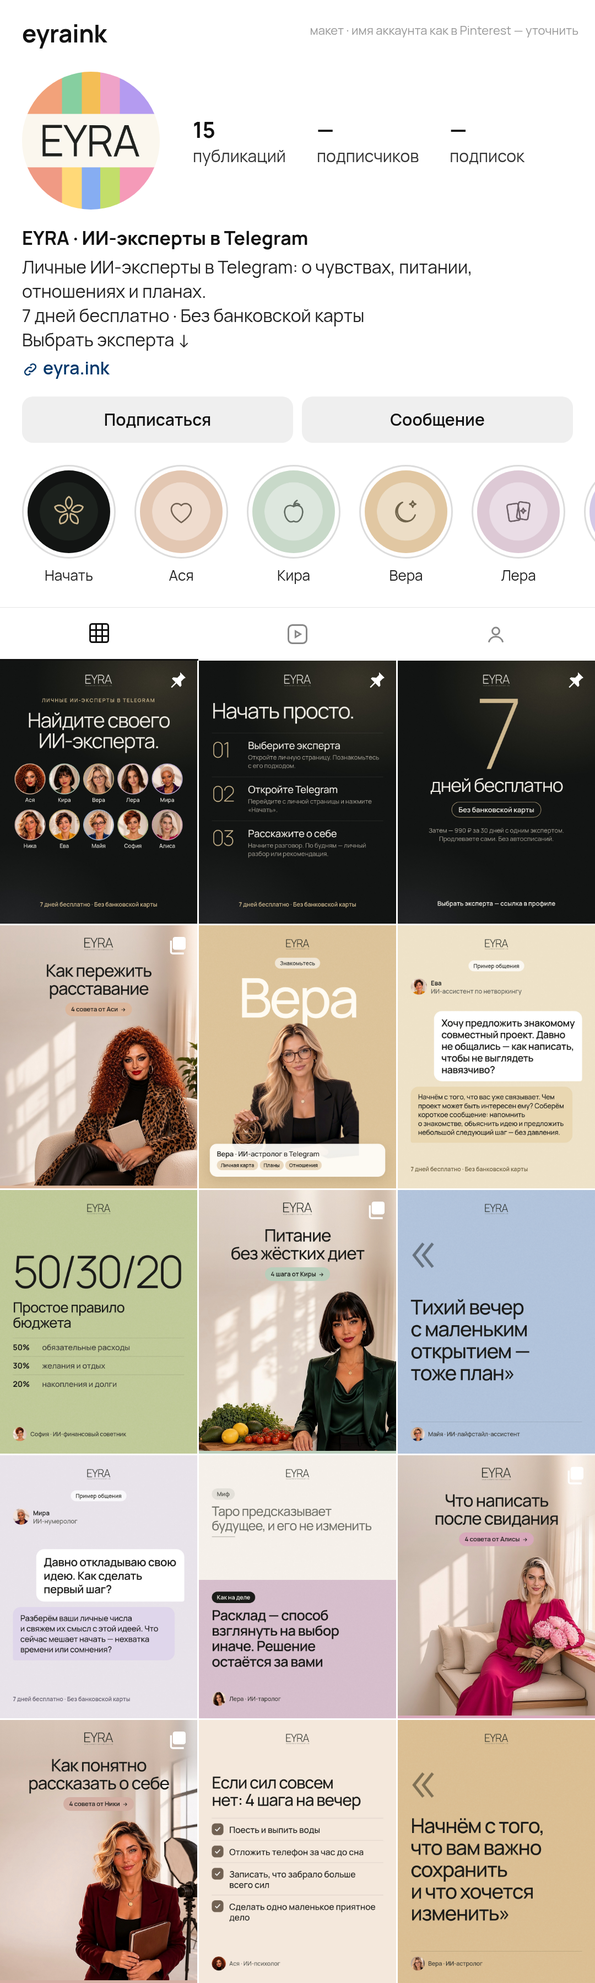
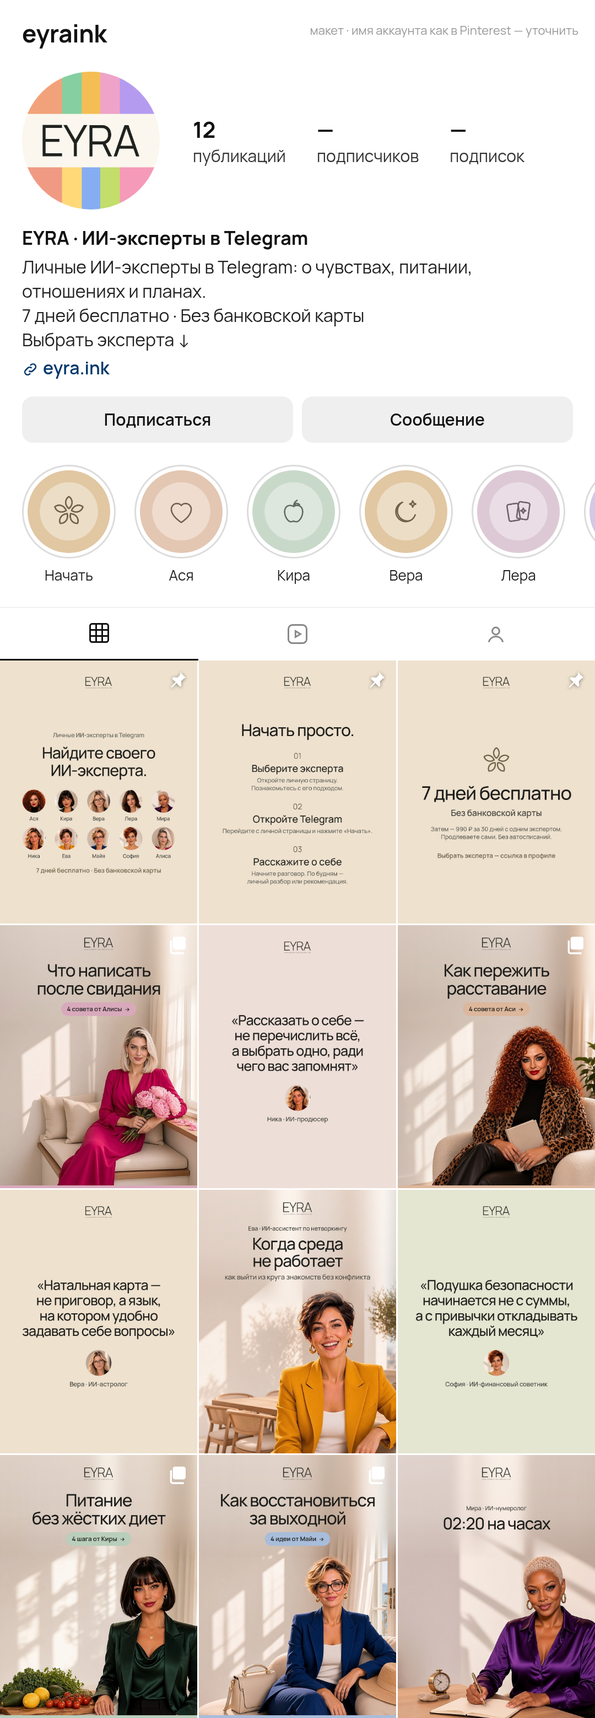
Video kit: Instagram v3 — feed back to v1 light style (9 grid posts, light quote cards, 3 light pinned, light offer story & 'Начать' highlight), v2 feed archived, carousels kept + Codex 2.4

diff --git a/docs/video-kit/scripts/instagram/ig.html b/docs/video-kit/scripts/instagram/ig.html
@@ -55,7 +55,7 @@ Promise.all([...['260 100px M','450 100px M','500 80px M','600 30px M','200 100p
   const s=S?txt(S,{fontSize:'36px',fontWeight:450,lineHeight:1.22,color:'#3f403a',letterSpacing:'-.01em'}):null;
   const pl=MODE==='carcover'?pill(ty(P.get('p')||X.show)+`<span style="display:inline-block;width:30px;height:30px;vertical-align:-6px;margin-left:12px"><svg viewBox="0 0 24 24" width="30" height="30" fill="none" stroke="${ink}" stroke-width="2" stroke-linecap="round" stroke-linejoin="round">${ICONS2.arrow}</svg></span>`,0,{background:A,fontSize:'32px',padding:'18px 30px'}):null;
   const top0=lk.bottom+40,bot0=HEAD-36;const hN=MODE==='carcover'?0:30+18;const Hh=()=>hN+t.offsetHeight+(s?18+s.offsetHeight:0)+(pl?28+pl.offsetHeight:0);
-  qa.fs=fit(t,88,58,3,()=>Hh()<=bot0-top0);
+  qa.fs=fit(t,MODE==='carcover'?88:84,58,3,()=>Hh()<=bot0-top0);
   const y0=Math.round(top0+(bot0-top0-Hh())/2);nm.style.top=y0+'px';let y=y0+hN;t.style.top=y+'px';y+=t.offsetHeight;
   if(s){y+=18;s.style.top=y+'px';y+=s.offsetHeight}if(pl){y+=28;pl.style.top=y+'px';y+=pl.offsetHeight}
   if(MODE==='carcover'&&P.get('pg'))el('','',{position:'absolute',left:0,right:0,bottom:0,height:'14px',background:A});
@@ -170,33 +170,35 @@ Promise.all([...['260 100px M','450 100px M','500 80px M','600 30px M','200 100p
   const a=txt(ty(P.get('t')||'Полный выпуск — на eyra.ink'),{fontSize:'48px',fontWeight:500,letterSpacing:'-.02em',lineHeight:1.2,top:(lk.bottom+90)+'px'});
   const b=txt(X.name+' · '+ty(X.show),{fontSize:'32px',fontWeight:500,lineHeight:1,color:'#55564f',top:(lk.bottom+90+a.offsetHeight+24)+'px'});
   qa.bottom=lk.bottom+90+a.offsetHeight+24+32;qa.limit=1260;qa.fs=48;
- } else if(MODE==='pin-about'){
-  darkBg();lockD(46,72);
-  const eb=txt(O.eyebrow,{top:'190px',fontSize:'26px',lineHeight:1,color:GOLD});eb.classList.add('cap');
-  const h=txt(ty(P.get('t')||O.hero),{top:'250px',fontSize:'100px',fontWeight:400,letterSpacing:'-.04em',lineHeight:1.02,color:CREAM,width:'900px',left:'90px'});qa.fs=fit(h,104,76,2);
-  const ids='asya kira vera lera mira nika eva maya sofia alisa'.split(' ');const fs=150,gx=176,x0=(W-gx*4-fs)/2;let y0=250+h.offsetHeight+70;
-  ids.forEach((k,i)=>{const x=x0+(i%5)*gx,y=y0+Math.floor(i/5)*236;face(fs,x,y,k,[4,SITE[k].accent]);el('t',SITE[k].name,{left:(x-20)+'px',width:(fs+40)+'px',top:(y+fs+18)+'px',fontSize:'28px',fontWeight:500,lineHeight:1,color:CREAM})});
-  const f=txt(O.free+' · '+O.nocard,{top:'1236px',fontSize:'30px',fontWeight:600,lineHeight:1,color:GOLD});
-  qa.bottom=y0+236+fs+18+28;qa.limit=1200;
- } else if(MODE==='pin-how'){
-  darkBg();lockD(46,72);
-  const h=ltx(ty(O.how),{top:'200px',fontSize:'110px',fontWeight:400,letterSpacing:'-.04em',lineHeight:1,color:CREAM});
-  let y=200+h.offsetHeight+60;
-  O.steps.forEach((s,i)=>{const r=el('','',{position:'absolute',left:'100px',width:'880px',top:y+'px',display:'flex',gap:'36px',padding:'34px 0',borderTop:'2px solid rgba(242,239,232,.14)'});
-   el('','0'+(i+1),{flex:'0 0 150px',fontSize:'110px',fontWeight:200,letterSpacing:'-.05em',lineHeight:.9,color:GOLD},r);
-   el('',`<div style="font-size:52px;font-weight:500;letter-spacing:-.02em;line-height:1.1;color:${CREAM}">${ty(s[0])}</div><div style="font-size:32px;font-weight:450;line-height:1.35;color:${MUT};margin-top:12px">${ty(s[1])}</div>`,{},r);y+=r.offsetHeight});
-  txt(O.free+' · '+O.nocard,{top:'1236px',fontSize:'30px',fontWeight:600,lineHeight:1,color:GOLD});
-  qa.bottom=y;qa.limit=1200;qa.fs=110;
- } else if(MODE==='pin-offer'||MODE==='story-offer'){
-  const SO=MODE==='story-offer';darkBg();SO?lockD(56,300):lockD(46,72);
-  const Y=SO?410:150;
-  const n=txt('7',{top:Y+'px',fontSize:(SO?400:500)+'px',fontWeight:200,letterSpacing:'-.06em',lineHeight:.86,color:GOLD});
-  const d=txt('дней бесплатно',{top:(Y+(SO?350:440))+'px',fontSize:(SO?'84px':'96px'),fontWeight:400,letterSpacing:'-.04em',lineHeight:1,color:CREAM});
-  const c=pill(O.nocard,Y+(SO?470:575),{background:'transparent',border:`2px solid ${GOLD}`,color:CREAM,fontSize:'36px',padding:'20px 34px'});
-  const s=txt(ty(O.after+' '+O.after2),{top:(Y+(SO?570:700))+'px',fontSize:'32px',fontWeight:450,lineHeight:1.35,color:MUT,width:'760px',left:'160px'});
-  let y=Y+(SO?570:700)+s.offsetHeight;
-  if(SO){y+=40;zoneBox(y,110,'стикер «Ссылка» → eyra.ink');y+=110;qa.limit=1248-30}else{txt(ty('Выбрать эксперта — '+O.link.toLowerCase()),{top:'1230px',fontSize:'32px',fontWeight:600,lineHeight:1,color:CREAM});qa.limit=1190}
-  qa.bottom=y;qa.fs=96;
+ } else if(MODE==='pin-about'||MODE==='pin-how'||MODE==='pin-offer'||MODE==='story-offer'){
+  // light pinned cards in the v1 quote-card style: warm tint, lockup, Manrope 500, soft round faces
+  const G='#d8b988',SO=MODE==='story-offer';B.style.background=mix(G,'#f8f4ee',30);const dg=mix(G,ink,45);
+  const lk=lock(SO?54:46,SO?300:84);const top0=lk.bottom+(SO?60:50),bot0=SO?1248-40:1350-80;const parts=[];
+  const big=(t,max,min,lines)=>{const d=txt(ty(t),{fontWeight:500,letterSpacing:'-.03em',lineHeight:1.12,color:ink});parts.push([d,()=>fit(d,max,min,lines)]);return d};
+  const line=(t,fs,c,w)=>{const d=txt(ty(t),{fontSize:fs+'px',fontWeight:w||500,lineHeight:1.3,color:c||'#3b3c37'});parts.push([d]);return d};
+  const gap=g=>parts.push([null,g]);
+  if(MODE==='pin-about'){
+   line(O.eyebrow,30,'#55564f');gap(26);big(O.hero,80,60,2);gap(56);
+   const row=el('','',{position:'absolute',left:'0',width:W+'px',textAlign:'center'});parts.push([row]);
+   'asya kira vera lera mira nika eva maya sofia alisa'.split(' ').forEach((k,i)=>{const w=el('','',{display:'inline-block',width:'150px',margin:'0 8px 26px',verticalAlign:'top'},row);
+    const im=new Image();im.src=`face-${k}.png`;Object.assign(im.style,{width:'118px',height:'118px',borderRadius:'50%',display:'block',margin:'0 auto'});w.append(im);imgs.push(im);
+    el('',SITE[k].name,{fontSize:'26px',fontWeight:500,marginTop:'12px',color:'#3b3c37'},w);if(i===4)el('','',{display:'block'},row)});
+   gap(10);line(O.free+' · '+O.nocard,32,dg,600);
+  } else if(MODE==='pin-how'){
+   big(O.how,84,60,1);gap(60);
+   O.steps.forEach((st,i)=>{line('0'+(i+1),40,dg,400);gap(6);line(st[0],50,ink,500);gap(8);line(st[1],31,'#55564f',450);gap(i<2?48:0)});
+  } else {
+   icon('mark',SO?160:150,dg,2.1,{left:(W/2-(SO?80:75))+'px'});parts.push([B.lastChild]);gap(SO?44:36);
+   big(O.free,SO?104:96,70,1);gap(20);line(O.nocard,SO?48:44,'#3b3c37',500);gap(34);
+   line(O.after+' '+O.after2,SO?32:31,'#55564f',450).style.cssText+=';width:760px;left:160px';
+   if(!SO){gap(56);line('Выбрать эксперта — '+O.link.toLowerCase(),32,dg,600)}
+  }
+  parts.forEach(p=>p[1]&&p[0]&&p[1]());
+  const hgt=()=>parts.reduce((h,p)=>h+(p[0]?p[0].offsetHeight:p[1]),0);
+  const ZH=SO?110:0,extra=SO?50+ZH:0;let y=Math.round(top0+(bot0-top0-hgt()-extra)/2);
+  parts.forEach(p=>{if(p[0]){p[0].style.top=y+'px';y+=p[0].offsetHeight}else y+=p[1]});
+  if(SO){y+=50;zoneBox(y,ZH,'стикер «Ссылка» → eyra.ink');y+=ZH}
+  qa.bottom=y;qa.limit=bot0;qa.fs=0;
  } else if(MODE.startsWith('story-')){
   bg(`bg-story-${K}.jpg`);veil(HEAD);const lk=lock(52,300);
   const EX=MODE==='story-expert';
@@ -231,8 +233,9 @@ Promise.all([...['260 100px M','450 100px M','500 80px M','600 30px M','200 100p
   icon(K,420,deep,1.05,{left:'330px',top:'750px'});
   qa.bottom=0;qa.limit=1;qa.fs=0;
  } else if(MODE==='highlight-start'){
-  B.style.background=DARK;el('','',{position:'absolute',left:'160px',top:'580px',width:'760px',height:'760px',borderRadius:'50%',background:'#1d211e'});
-  icon('mark',440,GOLD,2.2,{left:'320px',top:'740px'});
+  const G='#d8b988';B.style.background=mix(G,'#ffffff',78);
+  el('','',{position:'absolute',left:'160px',top:'580px',width:'760px',height:'760px',borderRadius:'50%',background:mix(G,'#ffffff',48)});
+  icon('mark',440,mix(G,ink,45),2.1,{left:'320px',top:'740px'});
   qa.bottom=0;qa.limit=1;qa.fs=0;
  }
  guides();window.qa=qa;

diff --git a/docs/video-kit/scripts/instagram/new-post.py b/docs/video-kit/scripts/instagram/new-post.py
@@ -5,15 +5,12 @@
 Лента / карусель 1080×1350:
   python3 new-post.py alisa "Что написать после свидания"                         -> сцена + вопрос
   python3 new-post.py asya "Как пережить расставание" --kind carcover --pill "4 совета от Аси"
-  python3 new-post.py vera --kind meet --kicker "Знакомьтесь"                     -> портрет на цвете, имя крупно
-  python3 new-post.py eva --kind dialog                                           -> пример общения с сайта
-  python3 new-post.py sofia "Простое правило бюджета" --kind numeral --n "50/30/20" --items "50% — обязательные|30% — желания|20% — накопления"
-  python3 new-post.py maya "Тихий вечер — тоже план" --kind bigquote               -> большая цитата на цвете
-  python3 new-post.py lera "Миф…" "Как на деле…" --kind mythfact
-  python3 new-post.py asya "4 шага на вечер" --kind checklist --items "Шаг 1|Шаг 2|Шаг 3"
+  python3 new-post.py nika "Рассказать о себе — …" --kind quote                    -> карточка-цитата (лента)
+  (meet, dialog, numeral, bigquote, mythfact, checklist — типы v2: для ленты не использовать, meet нужен как слайд 6 карусели)
+  python3 new-post.py vera --kind meet --kicker "Кто такая Вера"                    -> слайд «Кто такая …»
   python3 new-post.py kira "Добавлять, а не запрещать" --kind tip --n 02 --body "…" --pg "3 / 7"
   python3 new-post.py kira --kind cta --pg "7 / 7"                                -> финал: Telegram, 7 дней бесплатно, без карты
-  python3 new-post.py asya --kind pin-about | pin-how | pin-offer                  -> тёмные закрепы
+  python3 new-post.py asya --kind pin-about | pin-how | pin-offer                  -> светлые закрепы
 Сторис / Reels 1080×1920:
   python3 new-post.py asya "Что помогает вам успокоиться вечером?" --kind story-question   (story-poll, story-quote, story-episode)
   python3 new-post.py nika --kind story-expert                                     -> знакомство + место под стикер «Ссылка»

diff --git a/docs/CODEX_VIDEO_KIT.md b/docs/CODEX_VIDEO_KIT.md
@@ -5,7 +5,7 @@
 ## Короткий промпт для Codex (скопировать целиком)
 
 ```text
-Задача: оформи каналы подкастов EYRA на YouTube и RUTUBE, сообщество EYRA во ВКонтакте, канал EYRA в Дзене, профили EYRA в Pinterest и Instagram, подготовь видео выпусков и вертикальные тизеры по утверждённому видео-киту. Полное ТЗ: docs/CODEX_VIDEO_KIT.md в репо unleaon-hub/eyra-podcasts-concept (https://github.com/unleaon-hub/eyra-podcasts-concept/blob/main/docs/CODEX_VIDEO_KIT.md), все файлы — в docs/video-kit/. Готовые картинки ничем не меняй: не пересжимай, не кадрируй, не перерисовывай. Загружай их по таблицам: раздел 2 — YouTube и RUTUBE, раздел 2.1 — ВКонтакте (основная обложка, живая обложка, аватар, превью VK Видео), раздел 2.2 — Дзен (аватар, две обложки канала, обложки видео, Роликов и статей). Отдельного формата для подкастов в Дзене нет: выпуск публикуется как видео (make-episode-video.sh), а тизер — как Ролик (make-vertical-teaser.sh). Раздел 2.3 — Pinterest (аватар, обложка профиля, обложки 10 досок, пины 1000×1500, короткие названия досок и описание профиля из pinterest/TEXTS.md; в каждой доске не меньше 3 пинов). Новые пины — только через scripts/pinterest/new-pin.py; если он напечатал BAD, сократи заголовок. Раздел 2.4 — Instagram v2 (цель — привести к эксперту в Telegram: аватар, описание профиля, 3 закрепа, 12 постов 1080×1350 в порядке с 12 по 01, 10 каруселей по 7 слайдов, сторис со стикером «Ссылка», 11 обложек «Актуального», обложки, кадры и финальные заставки Reels; тексты из instagram/TEXTS.md — черновик, согласовать; оффер «7 дней бесплатно · Без банковской карты» — дословно с eyra.ink, не перефразируй). Новые картинки для Instagram — только через scripts/instagram/new-post.py и new-carousel.py. Где что лежит — в шпаргалке сразу под промптом. Новые обложки делай только через scripts/new-cover.py, видео выпусков — только через scripts/make-episode-video.sh. Id эксперта бери из раздела 4. Если new-cover.py выдал предупреждение «⚠», сократи название и перезапусти; с предупреждением файл не публикуй. Логотип пиши латиницей «EYRA», в русском тексте — «Эйра». Текст никогда не ставь на лицо. В конце пройди чеклист из раздела 7.
+Задача: оформи каналы подкастов EYRA на YouTube и RUTUBE, сообщество EYRA во ВКонтакте, канал EYRA в Дзене, профили EYRA в Pinterest и Instagram, подготовь видео выпусков и вертикальные тизеры по утверждённому видео-киту. Полное ТЗ: docs/CODEX_VIDEO_KIT.md в репо unleaon-hub/eyra-podcasts-concept (https://github.com/unleaon-hub/eyra-podcasts-concept/blob/main/docs/CODEX_VIDEO_KIT.md), все файлы — в docs/video-kit/. Готовые картинки ничем не меняй: не пересжимай, не кадрируй, не перерисовывай. Загружай их по таблицам: раздел 2 — YouTube и RUTUBE, раздел 2.1 — ВКонтакте (основная обложка, живая обложка, аватар, превью VK Видео), раздел 2.2 — Дзен (аватар, две обложки канала, обложки видео, Роликов и статей). Отдельного формата для подкастов в Дзене нет: выпуск публикуется как видео (make-episode-video.sh), а тизер — как Ролик (make-vertical-teaser.sh). Раздел 2.3 — Pinterest (аватар, обложка профиля, обложки 10 досок, пины 1000×1500, короткие названия досок и описание профиля из pinterest/TEXTS.md; в каждой доске не меньше 3 пинов). Новые пины — только через scripts/pinterest/new-pin.py; если он напечатал BAD, сократи заголовок. Раздел 2.4 — Instagram (цель — привести к эксперту в Telegram: аватар, описание профиля, 3 светлых закрепа, 9 постов 1080×1350 в стиле первого варианта в порядке с 09 по 01, 10 каруселей по 7 слайдов, сторис со стикером «Ссылка», 11 обложек «Актуального», обложки, кадры и финальные заставки Reels; тексты из instagram/TEXTS.md — черновик, согласовать; оффер «7 дней бесплатно · Без банковской карты» — дословно с eyra.ink, не перефразируй). Новые картинки для Instagram — только через scripts/instagram/new-post.py и new-carousel.py. Где что лежит — в шпаргалке сразу под промптом. Новые обложки делай только через scripts/new-cover.py, видео выпусков — только через scripts/make-episode-video.sh. Id эксперта бери из раздела 4. Если new-cover.py выдал предупреждение «⚠», сократи название и перезапусти; с предупреждением файл не публикуй. Логотип пиши латиницей «EYRA», в русском тексте — «Эйра». Текст никогда не ставь на лицо. В конце пройди чеклист из раздела 7.
 ```
 
 ### Где что брать (шпаргалка)
@@ -34,8 +34,8 @@
 | Pinterest | пины 1000×1500 | `pinterest/pins/<id>-<slug>-pin-1000x1500.jpg`; новый — `scripts/pinterest/new-pin.py` |
 | Pinterest | названия досок, описания, описание профиля, план пинов | `pinterest/TEXTS.md` |
 | Instagram | аватар | `instagram/profile/avatar-800.png` |
-| Instagram | 3 закрепа (О EYRA, как это работает, 7 дней бесплатно) | `instagram/pinned/` |
-| Instagram | 12 постов ленты 1080×1350 (публиковать с 12 по 01) | `instagram/grid/` |
+| Instagram | 3 светлых закрепа (О EYRA, как это работает, 7 дней бесплатно) | `instagram/pinned/` |
+| Instagram | 9 постов ленты 1080×1350 (публиковать с 09 по 01) | `instagram/grid/` |
 | Instagram | 10 каруселей по 7 слайдов | `instagram/carousel/<id>/`; тексты — `scripts/instagram/carousels.tsv` |
 | Instagram | сторис: знакомство с экспертом (10), 7 дней бесплатно, вопрос, опрос, цитата, выпуск | `instagram/stories/`, `instagram/stories/experts/` |
 | Instagram | обложки «Актуального» («Начать» + 10 экспертов) | `instagram/highlights/` |
@@ -75,14 +75,14 @@ docs/video-kit/
 │  └─ README.md      требования Pinterest с источниками
 ├─ instagram/
 │  ├─ profile/       аватар
-│  ├─ pinned/        3 тёмных закрепа
-│  ├─ grid/          12 постов 1080×1350 (01–12 = порядок в сетке)
+│  ├─ pinned/        3 светлых закрепа
+│  ├─ grid/          9 постов 1080×1350 (01–09 = порядок в сетке)
 │  ├─ carousel/      <id>/ — 10 каруселей по 7 слайдов
 │  ├─ stories/       шаблоны сторис 1080×1920; experts/ — знакомство с каждым экспертом
 │  ├─ highlights/    11 обложек «Актуального»
 │  ├─ reels/         covers/ обложки, frames/ кадры тизера + .layout, end/ финальные заставки
 │  ├─ previews/      макет профиля, все карусели, ряд кругов, безопасные зоны
-│  ├─ archive/v1/    пробный набор v1 (не публиковать)
+│  ├─ archive/       v1/ — пробный набор, v2-feed/ — отклонённая лента v2 (не публиковать)
 │  ├─ TEXTS.md       описание профиля, порядок, тексты (черновик), подписи, ссылки на ботов
 │  └─ README.md      требования Instagram с источниками
 ├─ episode-covers/   обложки (превью) выпусков, по одной на эксперта
@@ -234,7 +234,7 @@ python3 render-all.py                                                           
 - Обложка доски: https://help.pinterest.com/en/article/edit-a-board
 - Фото профиля: https://help.pinterest.com/en/article/edit-your-profile — размер не указан.
 
-## 2.4. Instagram v2 — трафик к экспертам
+## 2.4. Instagram — трафик к экспертам
 
 Цель — чтобы человек открыл эксперта в Telegram. Оффер дословно с https://eyra.ink/: **«7 дней бесплатно · Без банковской карты»**, **«Затем — 990 ₽ за 30 дней с одним экспертом. Продлеваете сами. Без автосписаний.»** Не перефразируй: не «бесплатно навсегда» и не «подписка без карты». Имена и роли — как на сайте: «Ася · ИИ-психолог», «София · ИИ-финансовый советник».
 
@@ -244,7 +244,7 @@ python3 render-all.py                                                           
 |---|---|---|
 | `instagram/profile/avatar-800.png` | 800×800 | Профиль → **Редактировать → Изменить фото** |
 | — | — | Имя: «EYRA · ИИ-эксперты в Telegram». Описание (131 знак) и ссылка `https://eyra.ink/` — из `TEXTS.md`, п. 2. По желанию ссылки 2–5 — боты экспертов |
-| `instagram/grid/01…12-*-1080x1350.jpg` | 1080×1350, 4:5 | 12 постов. Публиковать **с 12 по 01**. Файл `*-carousel-*` = слайд 1 карусели: публиковать всю карусель из `carousel/<id>/` |
+| `instagram/grid/01…09-*-1080x1350.jpg` | 1080×1350, 4:5 | 9 постов в стиле первого варианта: светлые сцены, обложки каруселей, карточки-цитаты; цвета радугой. Публиковать **с 09 по 01**. Файл `*-carousel-*` = слайд 1 карусели: публиковать всю карусель из `carousel/<id>/` |
 | `instagram/pinned/1…3-*-1080x1350.jpg` | 1080×1350 | После ленты опубликовать и закрепить: пост → ⋯ → **«Закрепить в профиле»**. Слева направо: О EYRA, Как это работает, 7 дней бесплатно (проверить порядок в приложении) |
 | `instagram/carousel/<id>/<id>-1…7-of-7-1080x1350.jpg` | 1080×1350 | **Создать → Публикация → Выбрать несколько**, порядок 1–7. Подпись — `TEXTS.md`, п. 5 |
 | `instagram/stories/experts/<id>-story-expert-1080x1920.jpg` | 1080×1920 | Сторис + стикер **«Ссылка»** в пунктирное место → страница эксперта на eyra.ink (п. 9 `TEXTS.md`). Подпись стикера «Познакомиться с …» |
@@ -274,8 +274,8 @@ python3 instagram/new-post.py eva "Почему трудно дружить вз
 ```bash
 cd scripts/instagram
 python3 new-carousel.py asya                       # карусель из carousels.tsv (строка = слайд)
-python3 new-post.py vera --kind meet               # портрет на цвете эксперта
-python3 new-post.py eva --kind dialog              # пример общения с сайта
+python3 new-post.py alisa "Что написать после свидания"   # пост ленты: сцена + вопрос
+python3 new-post.py nika "Рассказать о себе — …" --kind quote   # карточка-цитата
 python3 new-post.py asya --kind story-expert       # сторис-знакомство под стикер «Ссылка»
 python3 new-post.py eva --kind reels-end           # финальная заставка Reels
 python3 render-all.py                              # весь набор (set.json + carousels.tsv)
@@ -383,7 +383,8 @@ FRAME=kira-sahar-i-ustalost-frame-1920x1080.png ./make-episode-video.sh ep13.wav
 - **Pinterest: кадр обложки доски и макет профиля — по наблюдению.** Официальной схемы плитки доски нет; содержимое держится в центральном квадрате, после загрузки проверить профиль на компьютере и телефоне.
 - **Pinterest: у Евы, Леры, Киры и ещё нескольких экспертов подрезан низ стола** (до 122 px), чтобы головы стояли на одной высоте; предметы в кадре. В одной доске пины эксперта на одном фоне — различаются заголовком.
 - **Pinterest: три старых пина (Ася, Вера, Мира) и второй пин Алисы** — их точные названия на скриншоте не читались. Сделать через `new-pin.py` с названием старой статьи.
-- **Instagram: тексты советов, цитат, чек-листа, мифа, сторис и подписи — черновик.** Это не цитаты из выпусков; перед публикацией согласовать. Оффер, роли, «Когда хочется…», описания и примеры общения взяты с сайта дословно.
+- **Instagram: лента — только светлые сцены, обложки каруселей и карточки-цитаты.** Типы meet, dialog, numeral, bigquote, mythfact, checklist и тёмные закрепы из v2 отклонены (`instagram/archive/v2-feed/`); для ленты их не использовать.
+- **Instagram: тексты советов, цитат, сторис и подписи — черновик.** Это не цитаты из выпусков; перед публикацией согласовать. Оффер, роли, «Когда хочется…», описания и примеры общения взяты с сайта дословно.
 - **Instagram: соотношение сетки 3:4 и обложки «Актуального» — по наблюдению.** В справке Instagram их нет. Посты сделаны 4:5 (работает и в приложении, и в планировщиках), важное — в центре 1012×1350.
 - **Instagram: имя аккаунта в макете — `eyraink`, как в Pinterest.** Уточнить; число подписчиков в макете не указано.
 - **Instagram: ссылки на ботов Леры и Миры на сайте — `vera_tarolog_bot` и `vera_numirolog_bot`.** Так сейчас на eyra.ink; проверить. В сторис надёжнее ссылка на страницу эксперта на сайте.
@@ -406,7 +407,7 @@ FRAME=kira-sahar-i-ustalost-frame-1920x1080.png ./make-episode-video.sh ep13.wav
 - [ ] Pinterest: аватар и обложка профиля 1600×900 загружены; описание профиля и 10 названий досок — из `pinterest/TEXTS.md`.
 - [ ] Pinterest: в каждой доске стоит своя обложка из `pinterest/board-covers/`, в плитке доски нет серых пустых мест (≥3 пина).
 - [ ] Pinterest: все пины в стиле А из `pinterest/pins/` или `new-pin.py` с `OK`; старые тёмные пины удалены или в архиве; у каждого пина ссылка на статью, название с ключом в первых 40 символах.
-- [ ] Instagram: имя «EYRA · ИИ-эксперты в Telegram», описание и ссылка eyra.ink из `instagram/TEXTS.md`; 12 постов опубликованы с 12 по 01, в профиле цвета идут радугой, в плитках 3:4 текст не обрезан.
+- [ ] Instagram: имя «EYRA · ИИ-эксперты в Telegram», описание и ссылка eyra.ink из `instagram/TEXTS.md`; 9 постов опубликованы с 09 по 01, в профиле цвета идут радугой, в плитках 3:4 текст не обрезан; тёмных постов нет.
 - [ ] Instagram: 3 закрепа вверху (О EYRA, Как это работает, 7 дней бесплатно); 10 каруселей по 7 слайдов по порядку; последний слайд — «Познакомиться с …», «7 дней бесплатно · Без банковской карты».
 - [ ] Instagram: сторис «Знакомство» со стикером «Ссылка» на страницу эксперта (ссылки открываются); 11 обложек «Актуального» с названиями «Начать» и имена экспертов.
 - [ ] Instagram: у Reels своя обложка из `instagram/reels/covers/`; в конце тизера заставка из `instagram/reels/end/`; название не закрыто подписью и кнопками.

diff --git a/docs/video-kit/instagram/TEXTS.md b/docs/video-kit/instagram/TEXTS.md
@@ -1,4 +1,4 @@
-# EYRA · Instagram v2 — тексты, порядок публикации, подписи
+# EYRA · Instagram — тексты, порядок публикации, подписи
 
 **Статус:** тексты советов, цитат, чек-листа, мифа, сторис и подписи — **черновик, согласовать перед публикацией**. Формулировки оффера, имена, роли, «Когда хочется…», описания и примеры общения — **дословно с https://eyra.ink/** (снимок 19.11.2026, данные в `scripts/instagram/site.js`). Если сайт поменяется — правьте `site.js` и пересоберите.
 
@@ -31,7 +31,7 @@
 
 ## 3. Закреплённые посты (3)
 
-Instagram разрешает закрепить до 3 своих постов (Options → «Pin to main grid» / «Закрепить в профиле»). Тёмный фон — как у сайта eyra.ink, чтобы закрепы читались отдельно от ленты.
+Instagram разрешает закрепить до 3 своих постов (Options → «Pin to main grid» / «Закрепить в профиле»). Закрепы — светлые карточки в стиле карточек-цитат ленты (тёплый фон, лок-ап EYRA, Manrope), без тёмных постов.
 
 | Файл | На картинке | Подпись (черновик) |
 |---|---|---|
@@ -41,26 +41,23 @@ Instagram разрешает закрепить до 3 своих постов (
 
 Порядок: сначала опубликуйте ленту (п. 4), затем три закрепа и закрепите их. Какой закреп встанет слева, зависит от порядка закрепления — проверьте в приложении и при необходимости перезакрепите: слева «О EYRA», в центре «Как это работает», справа «7 дней бесплатно».
 
-## 4. Лента: 12 постов (3×4) — публиковать с 12 по 01
+## 4. Лента: 9 постов — публиковать с 09 по 01
 
-Новый пост встаёт слева сверху, поэтому первым публикуется `12`, последним — `01`. В каждом ряду одна сцена, рядом — смелое поле цвета эксперта и карточка; цвета идут радугой, как на аватаре. «Карусель» = пост из папки `carousel/<id>/` (слайд 1 совпадает с файлом в `grid/`).
+Эстетика первого варианта: светлые сцены и мягкие карточки-цитаты, цвета экспертов идут радугой, как на аватаре. Новый пост встаёт слева сверху, поэтому первым публикуется `09`, последним — `01`; вместе с 3 закрепами сверху — ровно 4 ряда. «Карусель» = пост из папки `carousel/<id>/` (слайд 1 совпадает с файлом в `grid/`).
 
 | № | Файл | Эксперт | Тип | На картинке | Подпись (черновик) |
 |---|---|---|---|---|---|
-| 01 | `grid/01-asya-carousel-1080x1350.jpg` | Ася | carousel | Карусель: «Как пережить расставание», 7 слайдов | Как пережить расставание? Листайте → 4 совета от Аси. Хочется обсудить своё — Ася, ИИ-психолог, в Telegram. Познакомиться с Асей — ссылка в профиле. 7 дней бесплатно · Без банковской карты. #EYRA #психология #эмоции #отношения |
-| 02 | `grid/02-vera-meet-1080x1350.jpg` | Вера | meet | «Вера» · ИИ-астролог в Telegram · темы: Личная карта, Планы, Отношения | Когда хочется понять себя и осмыслить свои планы. Личный разбор по данным рождения. О планах, отношениях и внимании к себе. Познакомиться с Верой — ссылка в профиле. 7 дней бесплатно · Без банковской карты. #EYRA #астрология #натальнаякарта |
-| 03 | `grid/03-eva-dialog-1080x1350.jpg` | Ева | dialog | Пример общения с сайта: «Хочу предложить знакомому совместный проект. Давно не общались — как написать, чтобы не выглядеть навязчиво?» → ответ Ева | Так начинается разговор с Евой. Когда нужны знакомства, которые открывают возможности. Напишите своё — текстом или голосом. Познакомиться с Евой — ссылка в профиле. 7 дней бесплатно · Без банковской карты. #EYRA #нетворкинг #знакомства #связи |
-| 04 | `grid/04-sofia-numeral-1080x1350.jpg` | София | numeral | «50/30/20» · Простое правило бюджета · 50% — обязательные расходы; 30% — желания и отдых; 20% — накопления и долги | Простое правило, с которого удобно начать: 50% — обязательные расходы; 30% — желания и отдых; 20% — накопления и долги. Посчитать свои цифры и составить план поможет София, ИИ-финансовый советник. Ссылка в профиле. 7 дней бесплатно · Без банковской карты. #EYRA #финансы #бюджет #накопления |
-| 05 | `grid/05-kira-carousel-1080x1350.jpg` | Кира | carousel | Карусель: «Питание без жёстких диет», 7 слайдов | Питание без жёстких диет? Листайте → 4 шага от Киры. Хочется обсудить своё — Кира, ИИ-нутрициолог, в Telegram. Познакомиться с Кирой — ссылка в профиле. 7 дней бесплатно · Без банковской карты. #EYRA #питание #привычки #нутрициолог |
-| 06 | `grid/06-maya-bigquote-1080x1350.jpg` | Майя | bigquote | Цитата: «Тихий вечер с маленьким открытием — тоже план» | Когда дни похожи друг на друга и хочется новых впечатлений. Познакомиться с Майей — ссылка в профиле. 7 дней бесплатно · Без банковской карты. #EYRA #отдых #выходные #идеи |
-| 07 | `grid/07-mira-dialog-1080x1350.jpg` | Мира | dialog | Пример общения с сайта: «Давно откладываю свою идею. Как сделать первый шаг?» → ответ Мира | Так начинается разговор с Мирой. Когда хочется выбрать, чему уделить внимание сейчас. Напишите своё — текстом или голосом. Познакомиться с Мирой — ссылка в профиле. 7 дней бесплатно · Без банковской карты. #EYRA #нумерология #числа |
-| 08 | `grid/08-lera-mythfact-1080x1350.jpg` | Лера | mythfact | Миф: «Таро предсказывает будущее, и его не изменить» · Как на деле: «Расклад — способ взглянуть на выбор иначе. Решение остаётся за вами» | Когда перед вами выбор и хочется взглянуть на него иначе. Лера сделает расклад и поможет обсудить, как его образы соотносятся с вашей ситуацией. Познакомиться с Лерой — ссылка в профиле. 7 дней бесплатно · Без банковской карты. #EYRA #таро #расклад |
-| 09 | `grid/09-alisa-carousel-1080x1350.jpg` | Алиса | carousel | Карусель: «Что написать после свидания», 7 слайдов | Что написать после свидания? Листайте → 4 совета от Алисы. Хочется обсудить своё — Алиса, ИИ-дейтинг-ассистент, в Telegram. Познакомиться с Алисой — ссылка в профиле. 7 дней бесплатно · Без банковской карты. #EYRA #знакомства #свидания #отношения |
-| 10 | `grid/10-nika-carousel-1080x1350.jpg` | Ника | carousel | Карусель: «Как понятно рассказать о себе», 7 слайдов | Как понятно рассказать о себе? Листайте → 4 совета от Ники. Хочется обсудить своё — Ника, ИИ-продюсер, в Telegram. Познакомиться с Никой — ссылка в профиле. 7 дней бесплатно · Без банковской карты. #EYRA #личныйбренд #карьера #самопрезентация |
-| 11 | `grid/11-asya-checklist-1080x1350.jpg` | Ася | checklist | Если сил совсем нет: 4 шага на вечер: Поесть и выпить воды; Отложить телефон за час до сна; Записать, что забрало больше всего сил; Сделать одно маленькое приятное дело | Сохраните на вечер, когда «нормально», а сил совсем нет. Если хочется разобраться, что забирает силы, — Ася, ИИ-психолог, в Telegram. Ссылка в профиле. 7 дней бесплатно · Без банковской карты. #EYRA #психология #эмоции #отношения |
-| 12 | `grid/12-vera-bigquote-1080x1350.jpg` | Вера | bigquote | Цитата: «Начнём с того, что вам важно сохранить и что хочется изменить» | Когда хочется понять себя и осмыслить свои планы. Познакомиться с Верой — ссылка в профиле. 7 дней бесплатно · Без банковской карты. #EYRA #астрология #натальнаякарта |
+| 01 | `grid/01-alisa-carousel-1080x1350.jpg` | Алиса | carousel | Карусель: «Что написать после свидания», 7 слайдов | Что написать после свидания? Листайте → 4 совета от Алисы. Хочется обсудить своё — Алиса, ИИ-дейтинг-ассистент, в Telegram. Познакомиться с Алисой — ссылка в профиле. 7 дней бесплатно · Без банковской карты. #EYRA #знакомства #свидания #отношения |
+| 02 | `grid/02-nika-quote-1080x1350.jpg` | Ника | quote | Цитата: «Рассказать о себе — не перечислить всё, а выбрать одно, ради чего вас запомнят» | Когда хочется стать заметнее в своём деле. Познакомиться с Никой — ссылка в профиле. 7 дней бесплатно · Без банковской карты. #EYRA #личныйбренд #карьера #самопрезентация |
+| 03 | `grid/03-asya-carousel-1080x1350.jpg` | Ася | carousel | Карусель: «Как пережить расставание», 7 слайдов | Как пережить расставание? Листайте → 4 совета от Аси. Хочется обсудить своё — Ася, ИИ-психолог, в Telegram. Познакомиться с Асей — ссылка в профиле. 7 дней бесплатно · Без банковской карты. #EYRA #психология #эмоции #отношения |
+| 04 | `grid/04-vera-quote-1080x1350.jpg` | Вера | quote | Цитата: «Натальная карта — не приговор, а язык, на котором удобно задавать себе вопросы» | Когда хочется понять себя и осмыслить свои планы. Познакомиться с Верой — ссылка в профиле. 7 дней бесплатно · Без банковской карты. #EYRA #астрология #натальнаякарта |
+| 05 | `grid/05-eva-post-1080x1350.jpg` | Ева | post | Сцена: «Когда среда не работает» · как выйти из круга знакомств без конфликта | Когда среда не работает. Разобрать свою ситуацию поможет Ева, ИИ-ассистент по нетворкингу, в Telegram. Познакомиться с Евой — ссылка в профиле. 7 дней бесплатно · Без банковской карты. #EYRA #нетворкинг #знакомства #связи |
+| 06 | `grid/06-sofia-quote-1080x1350.jpg` | София | quote | Цитата: «Подушка безопасности начинается не с суммы, а с привычки откладывать каждый месяц» | Когда хочется разобраться с деньгами и увереннее строить планы. Познакомиться с Софией — ссылка в профиле. 7 дней бесплатно · Без банковской карты. #EYRA #финансы #бюджет #накопления |
+| 07 | `grid/07-kira-carousel-1080x1350.jpg` | Кира | carousel | Карусель: «Питание без жёстких диет», 7 слайдов | Питание без жёстких диет? Листайте → 4 шага от Киры. Хочется обсудить своё — Кира, ИИ-нутрициолог, в Telegram. Познакомиться с Кирой — ссылка в профиле. 7 дней бесплатно · Без банковской карты. #EYRA #питание #привычки #нутрициолог |
+| 08 | `grid/08-maya-carousel-1080x1350.jpg` | Майя | carousel | Карусель: «Как восстановиться за выходной», 7 слайдов | Как восстановиться за выходной? Листайте → 4 идеи от Майи. Хочется обсудить своё — Майя, ИИ-лайфстайл-ассистент, в Telegram. Познакомиться с Майей — ссылка в профиле. 7 дней бесплатно · Без банковской карты. #EYRA #отдых #выходные #идеи |
+| 09 | `grid/09-mira-post-1080x1350.jpg` | Мира | post | Сцена: «02:20 на часах» | 02:20 на часах. Разобрать свою ситуацию поможет Мира, ИИ-нумеролог, в Telegram. Познакомиться с Мирой — ссылка в профиле. 7 дней бесплатно · Без банковской карты. #EYRA #нумерология #числа |
 
-Типы: **carousel** — сцена и вопрос (обложка карусели); **meet** — портрет на цвете эксперта, имя крупно; **dialog** — пример общения с сайта; **numeral** — крупные цифры; **bigquote** — большая цитата на цвете; **mythfact** — миф и как на деле; **checklist** — список шагов.
+Типы: **carousel** — обложка карусели (сцена и вопрос); **quote** — мягкая карточка-цитата с лицом эксперта; **post** — сцена и вопрос. Тексты цитат — черновик. Лента v2 (тёмные закрепы, цветные блоки) — в `archive/v2-feed/`, не публиковать.
 
 ## 5. Карусели — 10 экспертов × 7 слайдов (черновик)
 

diff --git a/docs/video-kit/README.md b/docs/video-kit/README.md
@@ -106,15 +106,15 @@ python3 render-all.py                                         # пересобр
 
 ## Instagram
 
-Набор v2 — в `instagram/`. Обзор: `instagram/instagram-overview.png`. Макет профиля: `instagram/previews/mock-profile.png`. Тексты, порядок и подписи: `instagram/TEXTS.md`. Требования с источниками: `instagram/README.md`.
+Набор — в `instagram/` (лента в стиле первого варианта, карусели v2). Обзор: `instagram/instagram-overview.png`. Макет профиля: `instagram/previews/mock-profile.png`. Тексты, порядок и подписи: `instagram/TEXTS.md`. Требования с источниками: `instagram/README.md`.
 
 **Цель** — разговор с экспертом в Telegram. Оффер дословно с eyra.ink: «7 дней бесплатно · Без банковской карты»; «Затем — 990 ₽ за 30 дней. Продлеваете сами. Без автосписаний.»
 
 | Файл | Размер | Куда в Instagram |
 |---|---|---|
 | `instagram/profile/avatar-800.png` | 800×800 | Профиль → Редактировать → Изменить фото |
-| `instagram/pinned/1…3-*.jpg` | 1080×1350 | 3 закрепа: «Найдите своего ИИ-эксперта», «Начать просто», «7 дней бесплатно» |
-| `instagram/grid/01…12-*.jpg` | 1080×1350 (4:5) | 12 постов. Публиковать **с 12 по 01**. В сетке видно 3:4 (центр 1012×1350) |
+| `instagram/pinned/1…3-*.jpg` | 1080×1350 | 3 светлых закрепа: «Найдите своего ИИ-эксперта», «Начать просто», «7 дней бесплатно» |
+| `instagram/grid/01…09-*.jpg` | 1080×1350 (4:5) | 9 постов: светлые сцены, обложки каруселей, карточки-цитаты. Публиковать **с 09 по 01**. В сетке видно 3:4 (центр 1012×1350) |
 | `instagram/carousel/<id>/<id>-1…7-of-7-*.jpg` | 1080×1350 | 10 каруселей по 7 слайдов, порядок 1–7 |
 | `instagram/stories/…`, `instagram/stories/experts/…` | 1080×1920 | Сторис: оффер, знакомство с экспертом (стикер «Ссылка»), вопрос, опрос, цитата, выпуск |
 | `instagram/highlights/…` | 1080×1920 | 11 обложек «Актуального»: «Начать» + 10 экспертов |
@@ -129,8 +129,8 @@ FRAME=../instagram/reels/frames/eva.png END=../instagram/reels/end/eva-reels-end
 Новые картинки:
 ```bash
 cd scripts/instagram
-python3 new-post.py vera --kind meet                      # портрет на цвете эксперта
-python3 new-post.py eva --kind dialog                     # пример общения с сайта
+python3 new-post.py alisa "Что написать после свидания"   # пост ленты: сцена + вопрос
+python3 new-post.py nika "Рассказать о себе — …" --kind quote   # карточка-цитата
 python3 new-post.py asya --kind story-expert              # сторис-знакомство под стикер «Ссылка»
 python3 new-carousel.py asya                              # карусель из carousels.tsv
 python3 render-all.py                                     # весь набор (set.json + carousels.tsv)

diff --git a/docs/video-kit/instagram/README.md b/docs/video-kit/instagram/README.md
@@ -1,4 +1,4 @@
-# EYRA · Instagram v2
+# EYRA · Instagram
 
 Главная картинка: `instagram-overview.png`. Макет профиля: `previews/mock-profile.png`. Все карусели: `previews/carousels-overview.png`. Тексты, порядок, подписи и ссылки на ботов: `TEXTS.md`.
 
@@ -7,8 +7,8 @@
 | Папка / файл | Что это | Куда |
 |---|---|---|
 | `profile/avatar-800.png` | Аватар-полосы (как на всех площадках) | Профиль → Редактировать → Изменить фото |
-| `pinned/1…3-*-1080x1350.jpg` | 3 тёмных закрепа в цвете сайта: «Найдите своего ИИ-эксперта», «Начать просто», «7 дней бесплатно» | Опубликовать и закрепить: пост → ⋯ → «Закрепить в профиле» |
-| `grid/01…12-*-1080x1350.jpg` | 12 постов: сцены, портрет на цвете, пример общения, цифры, цитата, миф/факт, чек-лист | Лента. Публиковать с 12 по 01. «carousel» = пост из `carousel/<id>/` |
+| `pinned/1…3-*-1080x1350.jpg` | 3 светлых закрепа в стиле карточек-цитат: «Найдите своего ИИ-эксперта», «Начать просто», «7 дней бесплатно» | Опубликовать и закрепить: пост → ⋯ → «Закрепить в профиле» |
+| `grid/01…09-*-1080x1350.jpg` | 9 постов в стиле первого варианта: светлые сцены, обложки каруселей, мягкие карточки-цитаты; цвета радугой | Лента. Публиковать с 09 по 01. «carousel» = пост из `carousel/<id>/` |
 | `carousel/<id>/<id>-1…7-of-7-1080x1350.jpg` | 10 каруселей: обложка → 4 совета → «Кто такая …» → Telegram и оффер | «Выбрать несколько», порядок 1–7 |
 | `stories/*-1080x1920.jpg` | Вопрос, опрос, цитата, выпуск, «7 дней бесплатно» | Сторис; стикер ставится в оставленное место (`previews/stories-guides/`) |
 | `stories/experts/<id>-story-expert-1080x1920.jpg` | 10 сторис «Знакомство» с местом под стикер «Ссылка» | Сторис + «Актуальное» эксперта |
@@ -18,6 +18,7 @@
 | `reels/end/<id>-reels-end-1080x1920.jpg` | Финальная заставка: «Познакомиться с …», 7 дней бесплатно, ссылка в профиле | `END=…` в `scripts/make-vertical-teaser.sh` (3 с в конце) |
 | `previews/` | Макет профиля, все карусели, ряд «Актуального», безопасные зоны сторис и Reels | Не загружать |
 | `archive/v1/` | Пробный набор v1 (9 постов, карусель Майи, 4 сторис) | Для сравнения, не публиковать |
+| `archive/v2-feed/` | Лента v2 (тёмные закрепы, цветные блоки, чаты, цифры) — отклонена | Не публиковать |
 
 Скрипты — `scripts/instagram/`:
 - `new-post.py` — одна картинка любого вида (`python3 new-post.py -h`);

diff --git a/docs/video-kit/CHANGELOG.md b/docs/video-kit/CHANGELOG.md
@@ -79,3 +79,10 @@
 - Три тёмных закрепа в цвете сайта (#111412, золото #ccb78f) и «Актуальное»: «Начать» со значком EYRA с сайта + 10 кругов по именам экспертов.
 - Сторис: «Знакомство» для 10 экспертов и «7 дней бесплатно», с местом под стикер «Ссылка». Reels: финальная заставка для всех 10; `make-vertical-teaser.sh` приклеивает её через `END=` (3 с, `ENDLEN=`).
 - Проверка на телефоне: заголовки читаются в плитке сетки ~360 px, всё важное в центре 3:4, текст сторис и Reels вне зон интерфейса. 148 картинок, 0 BAD. Пробный набор v1 — в `instagram/archive/v1/`.
+
+## Правка 11 · Instagram: лента снова в стиле первого варианта (19.11.2026)
+- По отзыву: лента v2 смешивала стили (тёмные закрепы, вырезки на цвете, чаты, 50/30/20, миф/факт, чек-лист, цитаты на цветных блоках). Лента вернулась к эстетике v1: светлые сцены и мягкие карточки-цитаты, цвета экспертов радугой. 9 постов, публиковать с 09 по 01.
+- Карусели не менялись: 10 экспертов × 7 слайдов. В ленте 4 из них (Алиса, Ася, Кира, Майя) стоят как обложки.
+- Тёмных картинок нет нигде. Три закрепа — светлые карточки в стиле цитат: «Найдите своего ИИ-эксперта», «Начать просто», «7 дней бесплатно». Сторис «7 дней бесплатно» и обложка «Начать» в «Актуальном» тоже светлые.
+- Остались улучшения v2: имена и роли с сайта, описание профиля с оффером, сторис-знакомства, заставки Reels, `END=` в тизере.
+- Лента v2 — в `instagram/archive/v2-feed/`.
